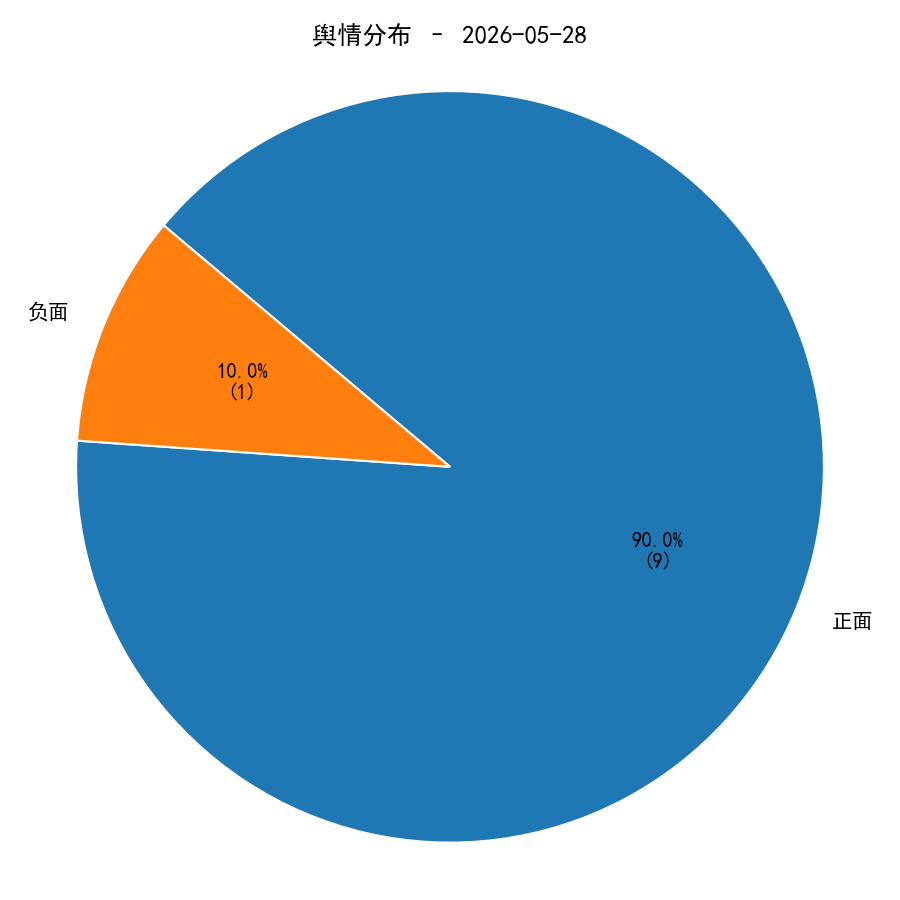
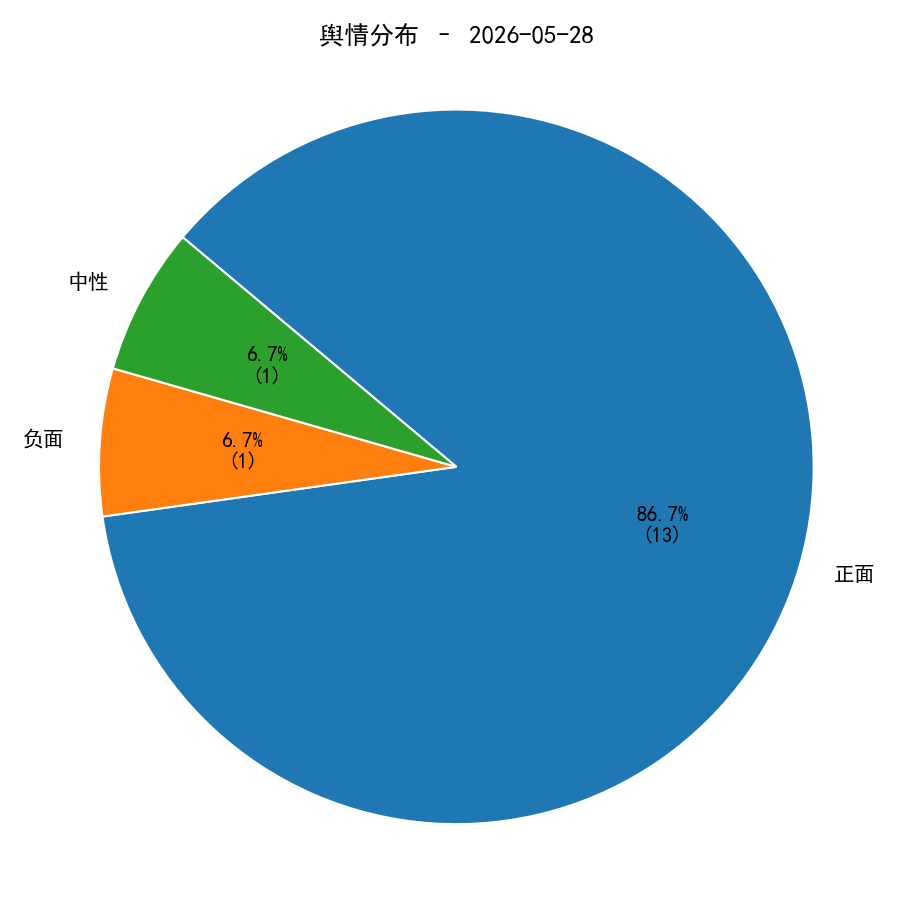
upodate

diff --git a/scripts/clean_data.py b/scripts/clean_data.py
@@ -132,14 +132,14 @@ def clean_title(item: dict, client) -> Optional[str]:
     if title:
         if not has_cjk(title):
             title = openai_translate_to_cn(title, client)
-        title = clean_text(title)[:20]
+        title = clean_text(title)
         return title if title else None
     # No title; try to generate from available text
     base = clean_text(item.get("content", "") or item.get("summary", ""))
     if not base:
         return None
     gen = openai_generate_title_cn(base, client)
-    gen = clean_text(gen)[:20]
+    gen = clean_text(gen)
     return gen if gen else None
 
 

diff --git a/output/report_2026-05-28.md b/output/report_2026-05-28.md
@@ -2,51 +2,51 @@
 
 ## 今日热点 Top 5
 
-- [1] [全球首发 | SLAI基于国产算力集群完](https://www.jiqizhixin.com/articles/2026-05-28-16) — 机器之心 | 2026-05-28 | 正面
-- [2] [谷歌AI不认识Google](https://www.jiqizhixin.com/articles/2026-05-28-15) — 机器之心 | 2026-05-28 | 负面
-- [3] [国产超算生成式压缩模型训练性能突破2.1](https://www.jiqizhixin.com/articles/2026-05-28-14) — 机器之心 | 2026-05-28 | 正面
-- [4] [别在CVPR独自社恐了！来丹佛AI Ta](https://www.jiqizhixin.com/articles/2026-05-28-13) — 机器之心 | 2026-05-28 | 正面
-- [5] [重塑人机对话理解范式，Google新数据](https://www.jiqizhixin.com/articles/2026-05-28-12) — 机器之心 | 2026-05-28 | 正面
+- [1] [全球首发 | SLAI基于国产算力集群完成DeepSeek-V4-Pro全参数后训练](https://www.jiqizhixin.com/articles/2026-05-28-16) — 机器之心 | 2026-05-28 | 正面
+- [2] [国产超算生成式压缩模型训练性能突破2.16 EFLOP/s，支撑全球遥感数据万倍级压缩](https://www.jiqizhixin.com/articles/2026-05-28-14) — 机器之心 | 2026-05-28 | 正面
+- [3] [重塑人机对话理解范式，Google新数据集首次大规模捕捉用户「未言明的想法」](https://www.jiqizhixin.com/articles/2026-05-28-12) — 机器之心 | 2026-05-28 | 正面
+- [4] [刚刚，国产预训练具身大模型开源了，让后训练不再是必选项！](https://www.jiqizhixin.com/articles/2026-05-28-11) — 机器之心 | 2026-05-28 | 正面
+- [5] [多变量神经缩放定律迈向大一统：Mila联手DeepMind提出UNSL](https://www.jiqizhixin.com/articles/2026-05-28-10) — 机器之心 | 2026-05-28 | 正面
 
 ## 重要事件概述
 
-### 全球首发 | SLAI基于国产算力集群完
+### 全球首发 | SLAI基于国产算力集群完成DeepSeek-V4-Pro全参数后训练
 
-  - 背景/概述：在人工智能快速发展的背景下，国产算力的大模型训练成为国家战略的重要组成部分。深圳河套学院与多家机构联合攻关，成功实现DeepSeek-V4-Pro在国产算力集群上的全参数后训练，标志着国产AI基础设施的重大进展。该项目不仅提升了训练效率和模型性能，还为培养AI人才提供了实践平台，未来将继续推进训练效率、超长上下文能力和强化学习技术的研究，推动国产AI技术的进一步发展。
-  - 影响（★★★）：该事件标志着国产AI基础设施的重大进展，将提升整体行业的技术水平和人才培养能力，对市场产生深远影响。
+  - 背景/概述：在人工智能快速发展的背景下，国产算力的大模型训练成为国家战略的重要组成部分。深圳河套学院与多家机构合作，成功实现了DeepSeek-V4-Pro在国产算力集群上的全参数后训练，标志着国产AI基础设施的重大进展。该项目不仅提升了训练效率和模型能力，还为培养AI人才提供了实践平台，未来将继续推进训练效率、超长上下文能力和强化学习技术的研究，推动国产AI技术的进一步发展。
+  - 影响（★★★）：该事件标志着国产AI基础设施的重大进展，将提升行业的技术水平和人才培养，推动国产AI技术的发展。
   - 相关方：SLAI、DeepSeek-V4-Pro、深圳河套学院
   - 主题：大模型
-### 谷歌AI不认识Google
+### 国产超算生成式压缩模型训练性能突破2.16 EFLOP/s，支撑全球遥感数据万倍级压缩
 
-  - 背景/概述：谷歌近期在搜索引擎中引入了AI能力的重大升级，但用户发现其在处理简单字母计数问题时频繁出错，引发广泛关注。这一问题不仅暴露了当前大语言模型在字母识别上的结构性缺陷，也影响了用户对谷歌搜索的信任度，尤其是在其作为信息获取主要渠道的背景下。谷歌表示正在修复这一问题，但从技术角度看，根本解决方案可能需要重新设计模型架构，面临高昂的成本和时间挑战。
-  - 影响（★★★）：谷歌AI在搜索引擎中的错误识别问题可能导致用户对其信任度下降，从而影响其市场竞争力和用户体验。
-  - 相关方：谷歌、AI、大语言模型
-  - 主题：大模型
-### 国产超算生成式压缩模型训练性能突破2.1
-
-  - 背景/概述：随着全球遥感卫星的持续运行，地球观测数据迅速增长，带来了存储和计算压力。清华大学和中山大学的研究团队提出的生成式压缩框架D2AR，利用历史先验模型实现高达10000倍的极端压缩，提升了遥感数据的重建质量和后续分析任务的有效性。这一创新不仅优化了数据存储和传输方式，也展示了国产超算在大规模AI训练中的应用潜力，为遥感数据的智能压缩和科学研究提供了新的解决方案。
-  - 影响（★★★）：国产超算生成式压缩模型的突破将显著提升遥感数据的处理效率，推动相关行业的技术进步和应用发展。
+  - 背景/概述：随着全球遥感卫星的持续运行，地球观测数据迅速增长，给存储和计算带来了压力。清华大学与中山大学等单位的研究团队提出的生成式压缩框架D2AR，利用历史先验进行极端压缩，能够在高达10000倍的压缩比下提升重建质量，支持后续分析任务。这一创新不仅展示了国产超算在AI科学应用中的能力，也为遥感数据的高效存储、传输和使用提供了新的解决方案。
+  - 影响（★★★）：这一突破将显著提升遥感数据的存储和处理效率，对相关行业的技术进步和成本降低产生积极影响。
   - 相关方：清华大学、中山大学、D2AR
   - 主题：模型压缩/蒸馏
-### 别在CVPR独自社恐了！来丹佛AI Ta
+### 重塑人机对话理解范式，Google新数据集首次大规模捕捉用户「未言明的想法」
 
-  - 背景/概述：随着AI技术的快速发展，CVPR 2026会议的投稿数量达到16092篇，较去年增长42%，显示出该领域的蓬勃活力。此次会议将于6月3日至7日在美国丹佛举行，吸引全球顶尖学者参与，反映出AI技术在多模态和物理世界的交叉演进趋势。会议期间还将举办“CVPR 2026 AI Talent Meetup”，为与会者提供交流前沿技术和职业发展的机会，进一步促进学术与产业的互动。
-  - 影响（★★★）：CVPR 2026会议的投稿数量激增，表明AI领域的快速发展将推动相关企业和用户在技术创新和职业发展方面的积极互动。
-  - 相关方：CVPR、AI、丹佛
-  - 主题：多模态
-### 重塑人机对话理解范式，Google新数据
-
-  - 背景/概述：对话型AI系统的快速发展使其日常用户交互量达到数十亿次，但现有研究主要集中于用户的表面表达，忽视了用户内心的真实意图。近期，来自JHU、MIT与Google Research的研究提出了ThoughtTrace数据集，首次系统性地捕捉用户在对话中的未言明思考，涵盖1,058名用户的2,155段多轮对话，提供了新的监督信号，显著提升了用户行为预测和模型对齐的效果。这一研究为未来人机交互的理解、模型训练和评估提供了新的方向，推动了AI助手向更深层次的用户理解迈进。
-  - 影响（★★★）：这一研究为人机交互领域带来了新的理解和模型训练方法，可能会显著提升AI助手的用户体验和准确性。
+  - 背景/概述：对话型AI系统的快速发展使其日均处理数十亿次用户交互，但现有研究主要集中于用户的表面表达，忽视了用户内心的真实思考。近期，来自JHU、MIT与Google Research的研究提出了ThoughtTrace数据集，首次系统性地捕捉用户在对话中的未言明思考，涵盖了用户的动机和反馈，显著提升了对用户行为的预测能力和模型对齐效果。这一研究为未来AI助手的训练和评估提供了新的数据模态，推动了人机交互领域的深入探索。
+  - 影响（★★★）：Google的新数据集将显著提升对话型AI系统的理解能力，推动人机交互的进步，对行业产生深远影响。
   - 相关方：Google、JHU、MIT
   - 主题：对话机器人
+### 刚刚，国产预训练具身大模型开源了，让后训练不再是必选项！
+
+  - 背景/概述：2026年初，国内具身智能领域出现开源潮，多个团队公开视觉-语言-动作（VLA）模型及相关数据集，推动行业竞争集中于模型性能评估。自变量机器人推出的Wall-OSS-0.5模型在未经过任务微调的情况下，成功在17个任务中进行测试，显示出强大的泛化能力和高效的学习能力，尤其在复杂任务中表现优异。这一成果不仅为具身智能的研究提供了新的基线，也为后续的技术发展和应用探索奠定了基础。
+  - 影响（★★★）：国产预训练具身大模型的开源将推动行业技术进步和竞争，降低了技术门槛，促进了更多企业和用户的参与。
+  - 相关方：Wall-OSS-0.5、自变量机器人、视觉-语言-动作模型
+  - 主题：大模型
+### 多变量神经缩放定律迈向大一统：Mila联手DeepMind提出UNSL
+
+  - 背景/概述：近年来，随着深度学习模型规模的不断扩大，传统的模型缩放定律已无法全面解释模型性能的变化。蒙特利尔大学Mila和Google DeepMind的研究者提出的统一神经缩放定律（UNSL）通过引入多变量、阶段性转折和超参数影响，提供了一种更为全面的性能建模方式。实验结果显示，UNSL在视觉和语言任务中均表现出显著的外推优势，表明其在多变量情况下的应用潜力，可能为未来的模型设计和优化提供新的理论基础。
+  - 影响（★★★）：UNSL的提出可能会推动深度学习模型的设计和优化，提升行业整体性能，影响广泛的应用领域。
+  - 相关方：Mila、DeepMind、UNSL
+  - 主题：大模型
 
 ## 趋势判断
 
-今日的技术趋势显示，国产AI基础设施正在快速发展，尤其是在大模型训练和算力集群的应用上，标志着国家在AI领域的战略布局逐渐成型。同时，谷歌在AI搜索引擎中的问题暴露了当前大语言模型的局限性，提示行业需关注模型架构的优化与用户信任的重建。此外，生成式压缩技术的突破为数据处理提供了新的解决方案，显示出国产超算在AI训练中的潜力。最后，CVPR会议的热度和对话机器人研究的进展表明，AI领域的学术与产业互动愈加紧密，推动多模态技术和人机交互的深入发展。
+当前技术领域的趋势显示，国产AI基础设施的快速发展正成为国家战略的核心，尤其是在大模型训练和应用方面。通过国产算力集群的成功案例，显示出在提升训练效率和模型能力上的显著进展。同时，生成式压缩技术的突破为处理海量遥感数据提供了创新解决方案，反映出对数据存储和传输效率的迫切需求。此外，新的对话机器人研究强调了用户内心思维的捕捉，推动人机交互的深入发展，预示着未来AI助手将更加智能化。整体来看，国产技术的自主创新与国际前沿研究的结合，正在推动AI领域的全面进步。
 
 
 ## 趋势与分布
 
-- 主题Top5：大模型:5, 模型压缩/蒸馏:1, 多模态:1, 对话机器人:1, 金融AI:1
-- 舆情分布：正面:90%, 中性:0%, 负面:10%
+- 主题Top5：大模型:5, 办公/生产力:2, 自然语言处理:1, 模型压缩/蒸馏:1, 多模态:1
+- 舆情分布：正面:87%, 中性:7%, 负面:7%

diff --git a/README.md b/README.md
@@ -32,7 +32,7 @@ Daily-AI-Insight-Engine/
 ```
 
 ## 3.数据源说明
-本项目使用 AI 行业相关新闻作为原始数据，主要采集网站为机器之心。相比其他综合平台，机器之心文章资源更加聚焦人工智能，以文章的形式提供AI方面最新舆情，数据噪音更低，但是爬取难度稍高，同时没有点击量以及点赞量等数据。当前 MVP 阶段主要采用人工整理后的静态 JSON 数据。
+本项目使用 AI 行业相关新闻作为原始数据，主要采集网站为机器之心和Techcrunch作为混合语言语料。相比其他综合平台，机器之心和TechcrunchAI板块文章资源更加聚焦人工智能，以文章的形式提供AI方面最新舆情。相比于微博，知乎等可信度和曝光度更高，更加能够反映客观舆情。但是相比之下没有曝光度数据（点赞，收藏等）因此影响力更难计算，并且机器之心无法获得发布的精准时间，导致计算影响力的时间权重难以计算。当前 MVP 阶段主要采用人工整理后的静态 JSON 数据。
 
 ## 4.系统设计思路
 原始数据(JSON)
@@ -59,7 +59,7 @@ Daily-AI-Insight-Engine/
 | `sentiment` | 舆情倾向，-1 负面，0 中性，1 正面 |
 | `topic_tags` | 新闻主题标签，用于趋势统计和可视化 |
 |
-
+字段设计逻辑在于用更小的数据量进行新闻分类（标签，实体，情感），总结（影响，摘要）以及对最后影响力进行加权计算（情感，影响力，时间）。
 ## 5 AI 使用方式
 本项目使用大模型完成以下任务：
 ### 5.1 数据清洗阶段